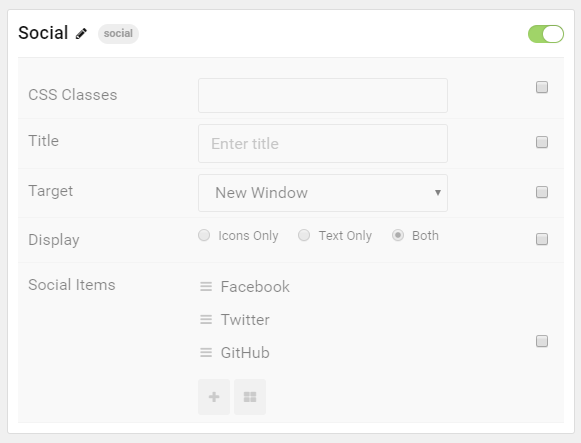
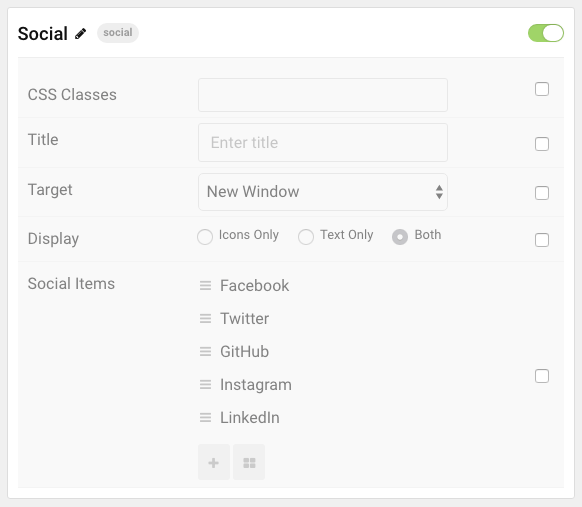
missing Social stuff

diff --git a/Docs/joomla/templates/koleti/particle_social.md b/Docs/joomla/templates/koleti/particle_social.md
@@ -7,6 +7,8 @@ breadcrumb: /joomla:Joomla/!templates:Templates/koleti:Koleti
 
 ## Introduction
 
+![](assets/particle_social1.png)
+
 The **Social** particle displays social media links, along with icons, in a simple and easy-to-use way.
 
 Here are the topics covered in this guide:
@@ -21,7 +23,7 @@ Here are the topics covered in this guide:
 
 These options affect the main area of the particle, and not the individual items within.
 
-![](assets/particle_social2.jpeg)
+![](assets/particle_social2.png)
 
 | Option        | Description                                                                                 |
 | :-----        | :-----                                                                                      |
@@ -36,7 +38,7 @@ These options affect the main area of the particle, and not the individual items
 
 These items make up the individual featured items in the particle.
 
-![](assets/particle_social3.jpeg)
+![](assets/particle_social3.png)
 
 | Option    | Description                                                                             |
 | :-----    | :-----                                                                                  |

diff --git a/Docs/joomla/templates/koleti/TOC.md b/Docs/joomla/templates/koleti/TOC.md
@@ -40,6 +40,7 @@ support: http://www.rockettheme.com/forum/joomla-template-koleti/
         * [Slideshow](particle_slideshow.md)
         * [Slider](particle_slider.md)
         * [Sliding Menu](particle_slidingmenu.md)
+        * [Social](particle_social.md)        
         * [Table Tabs](particle_tabletabs.md)
         * [Team](particle_team.md)
         * [Video](particle_video.md)
